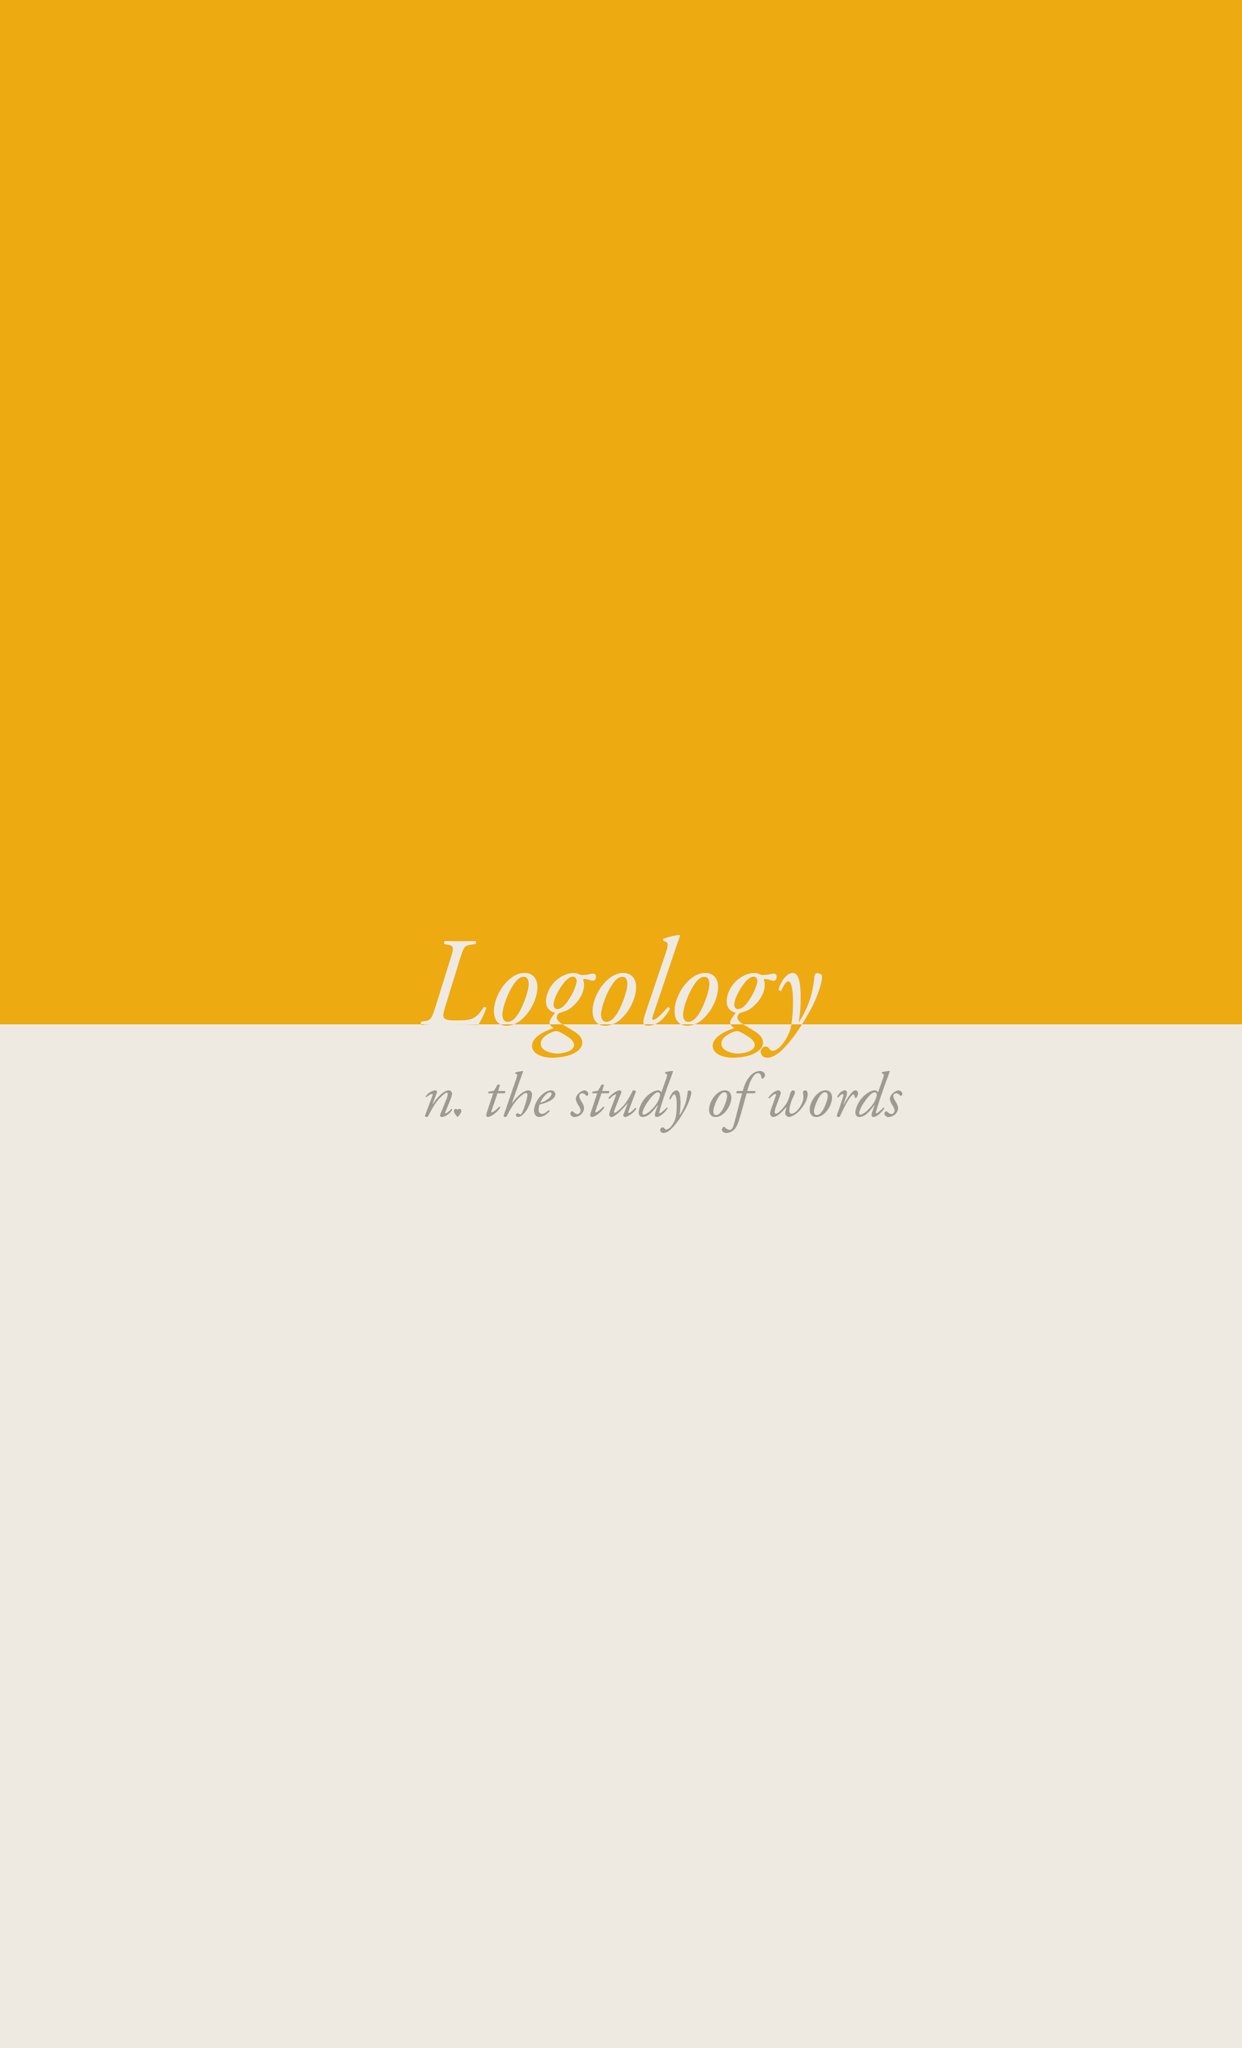
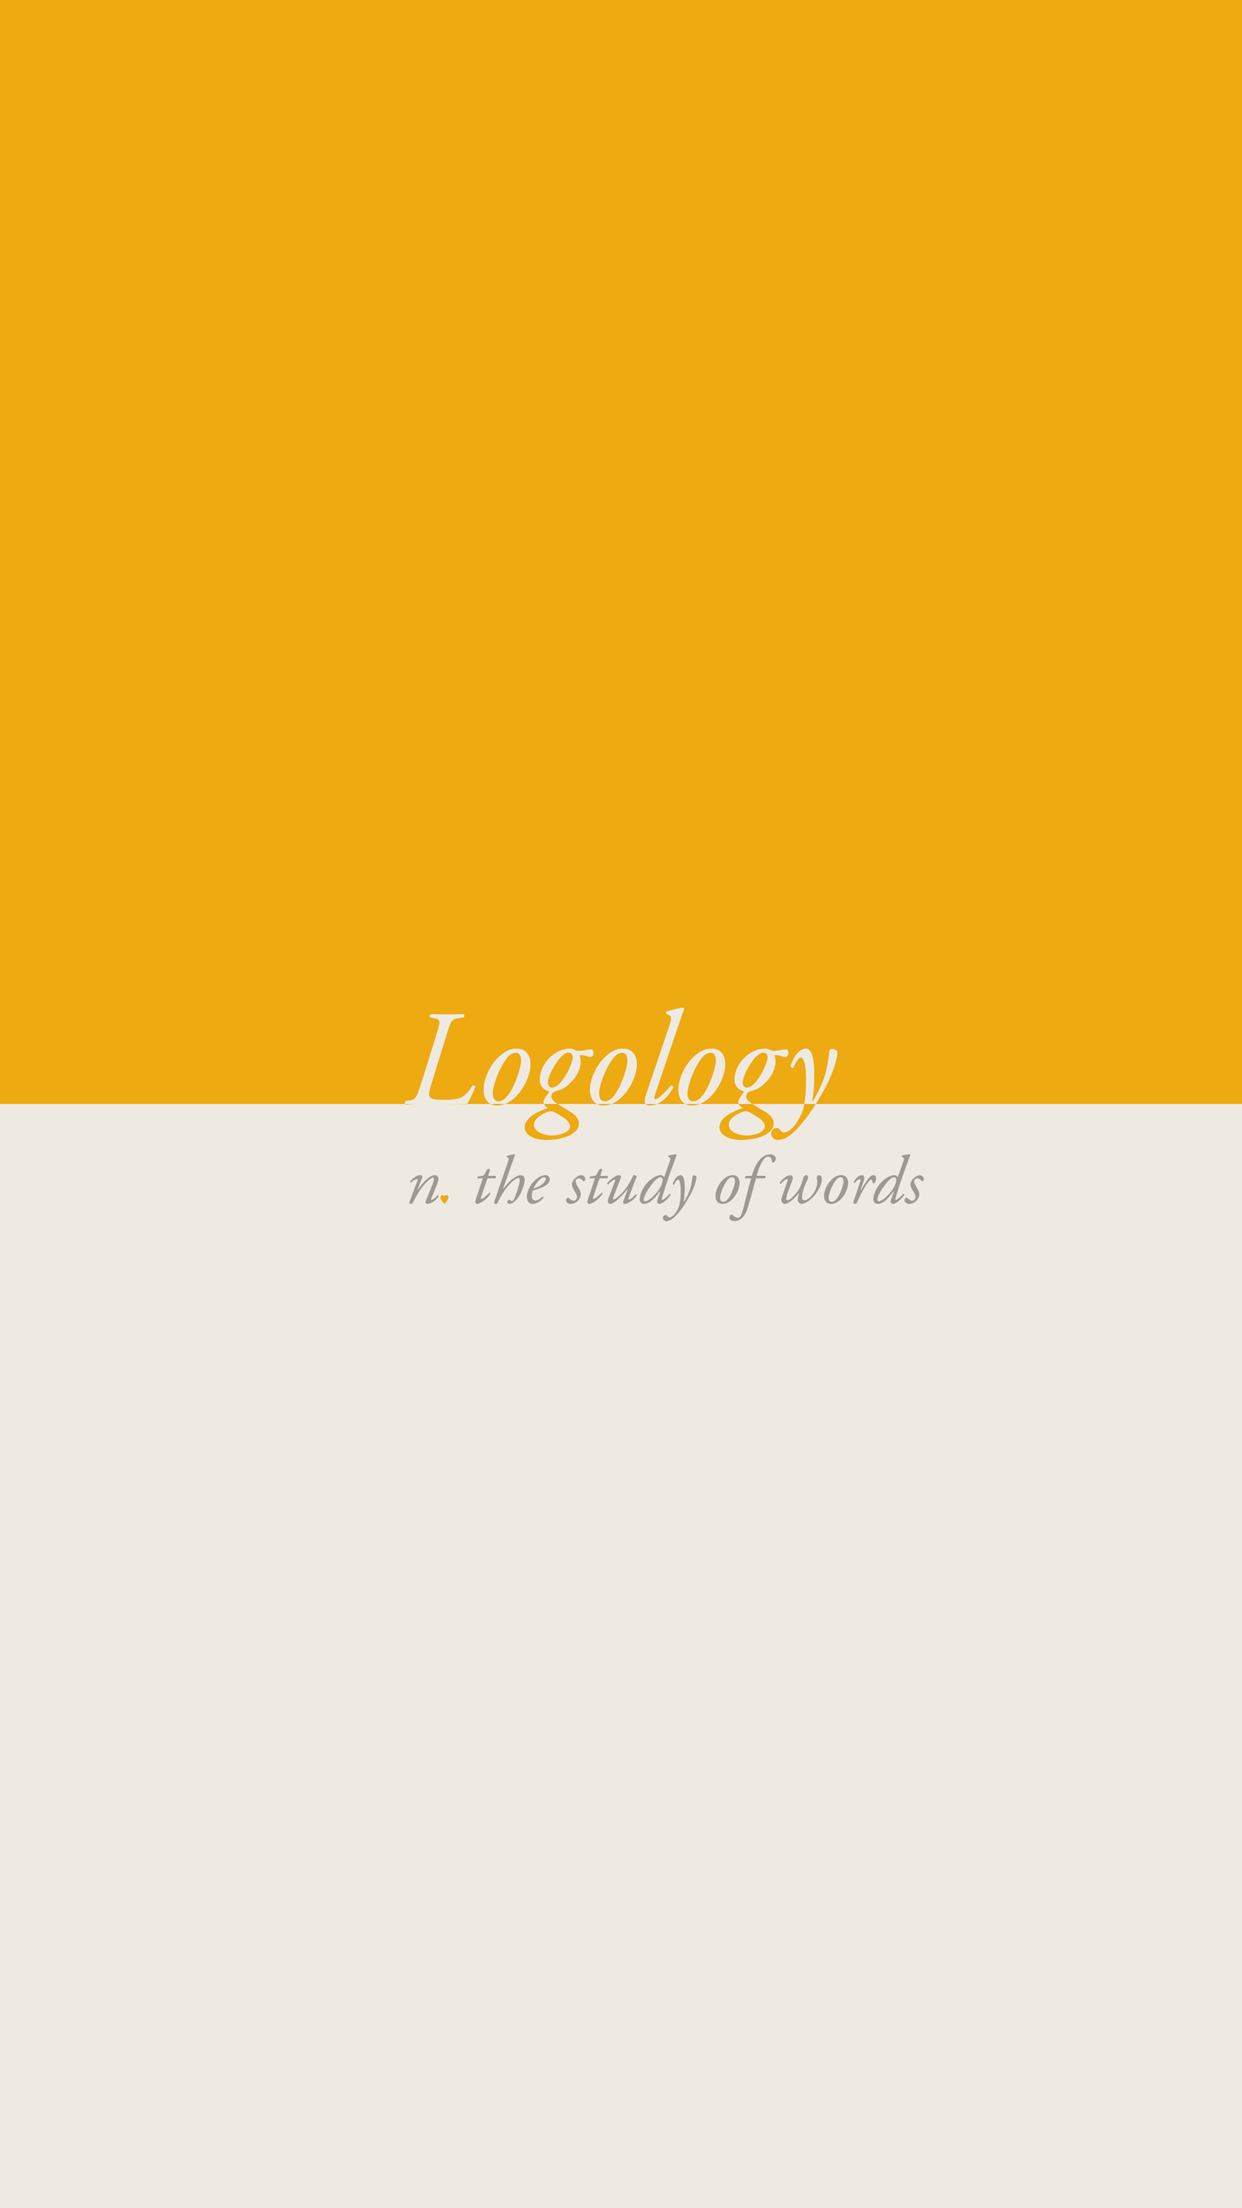
Assets

Changed region(s): [[0.3366, 0.4375, 0.7343, 0.5625]]

diff --git a/logology-v12/readme.md b/logology-v12/readme.md
@@ -8,3 +8,74 @@ This is the final version of the Logology project, and it corresponds with Chapt
   to build a release version of the app.
 
 * Gulp tasks have been updated to support `build.json`.
+
+## Apple App Store Distribution Notes
+
+The version of the application in the Apple App Store has been modified in the following manner in order to support the iPad Pro and
+to properly fit on smaller devices:
+
+ - General
+
+     - Remove the `Icon File` property from the `Logology-Info.plist` file.
+
+ - iOS 9 Multitasking Support
+
+     - Requires the creation of a Launch Screen storyboard
+
+         - File > New > iOS > User Interface > Launch Screen
+
+         - The two labels created automatically were removed
+
+         - An IMAGE VIEW was added to the view.
+
+         - The image in `/designs/iOS Launch Screen Variation 2-3072.png` was added to the Xcode project's `Resources/` directory.
+
+         - the new IMAGE VIEW's properties were set to the following:
+
+             - Image: iOS Launch Screen variation 2-3072.png
+
+             - Mode: Aspect Fill
+
+         - Added the following constraints to the IMAGE VIEW:
+
+             - Margins (TRBL): 0 (View), -20 (View), 0 (Bottom Layout Guide), -20 (View)
+
+             - Alignment: Horizontally and Vertically in container
+
+    - Settings changed in the Logology Target:
+
+        - Deployment Info, iPad
+
+            - Ensure `Requires Full Screen` is **UNCHECKED**
+
+            - Ensure all orientations are **CHECKED**
+
+        - App Icons and Launch Images
+
+            - Launch Screen File: Launch Screen
+
+ - Small Screen Support
+
+     - On older devices with smaller screens, when the soft keyboard is visible, landscape mode is very nearly unusable simply due
+     to the limited real-estate. In order to avoid this problem, we explicitly disabled rotation for phones.
+
+     - Settings changed in the Logology Target:
+
+         - Deployment Info, iPhone
+
+             - Ensure only `Portrait` orientation is **CHECKED**; all others should be **UNCHECKED**.
+ 
+ - iPad Pro Support
+
+     - In order to support the iPad Pro, a launch screen storyboard is required. We've already added this for multi-tasking support.
+
+     - A new icon had to be added to the AppIcon section in the `Resources/Images.xcassets` catalog. The icon is `167 x 167`, though
+     it is referred to as `83.5pt`. We had to resize our iTunes artwork icon to this new resolution and then drag and drop the image
+     in the appropriate location.
+
+ - iPhone 6(s)+ Support
+
+     - For some reason, the small icon for @3x didn't copy over. We copied it manually to the AppIcon section in the 
+     `Resources/Images.xcassets` catalog.
+
+
